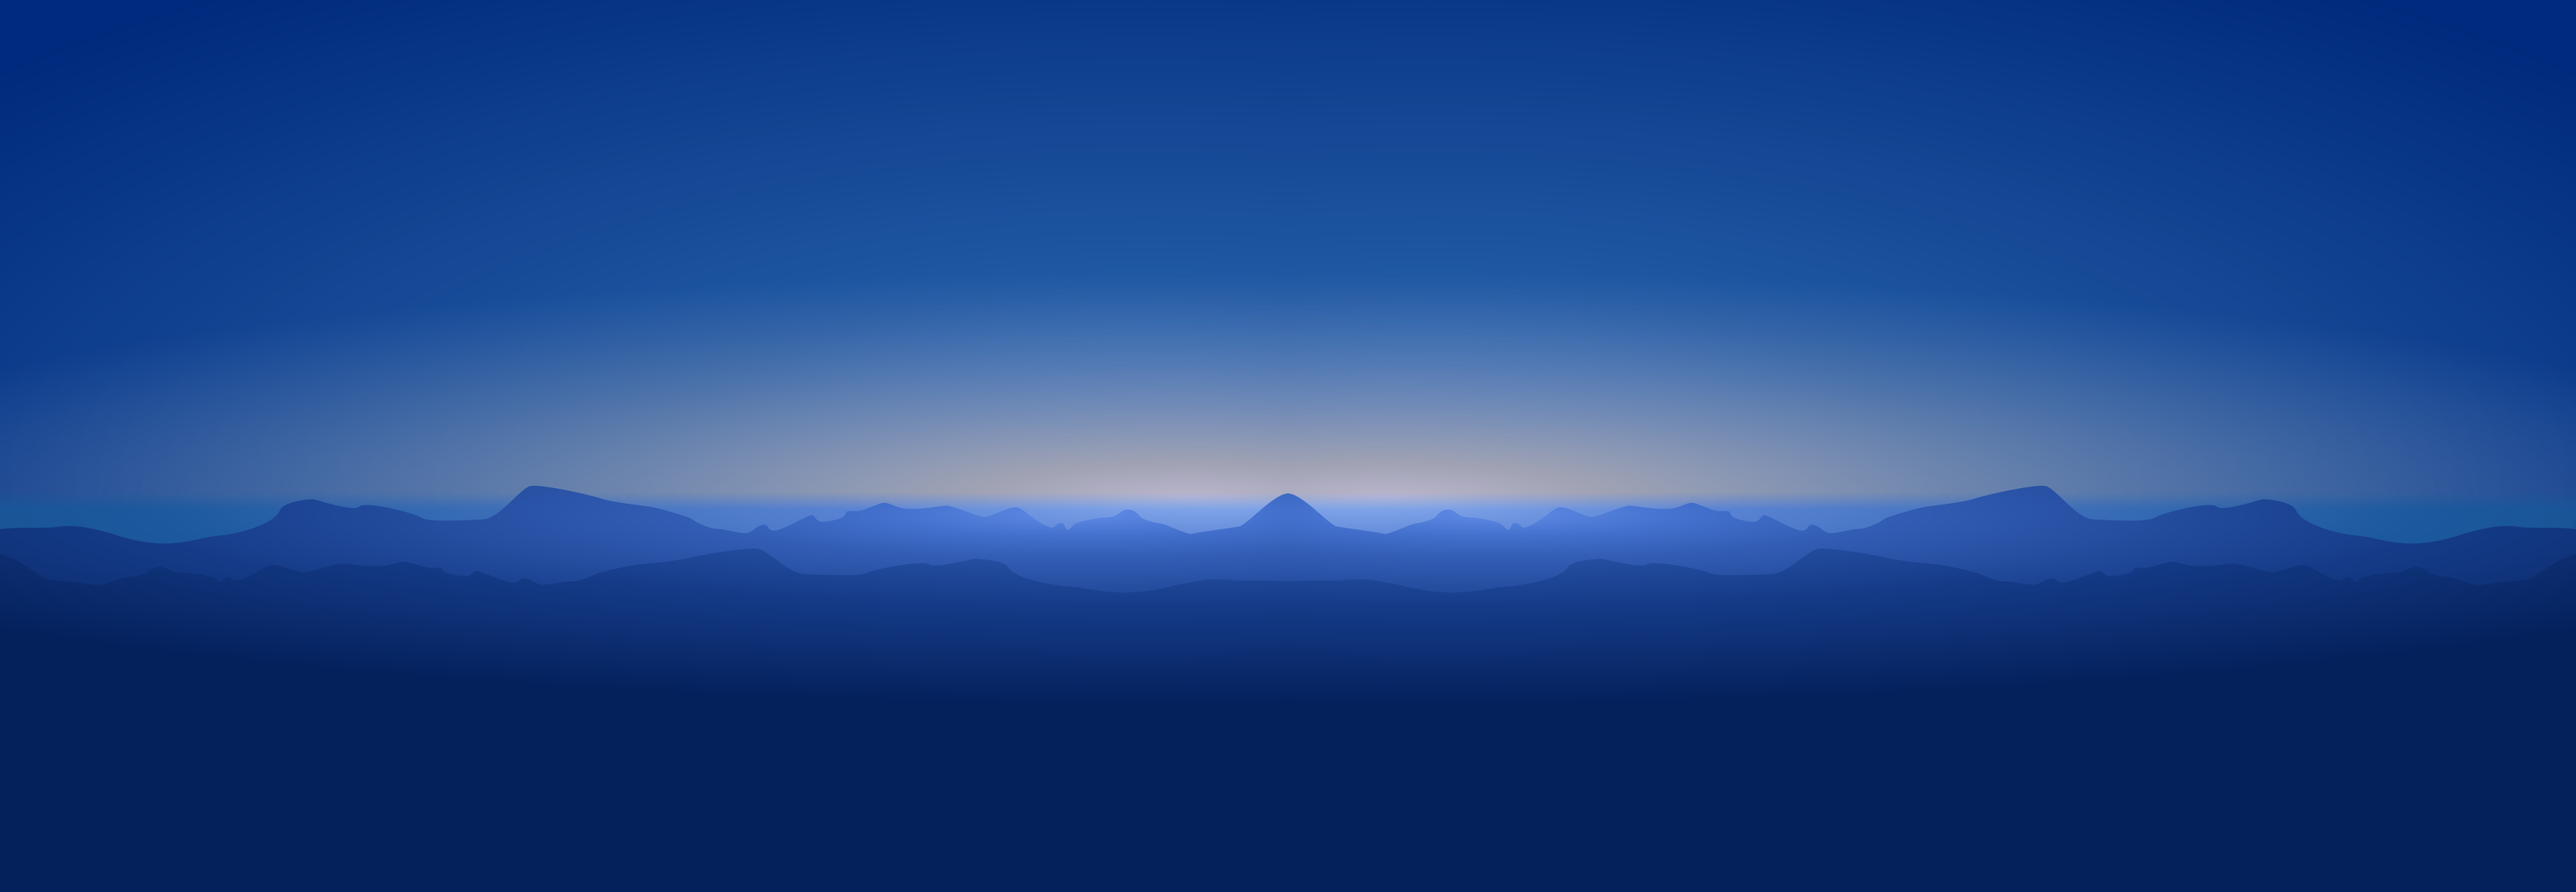
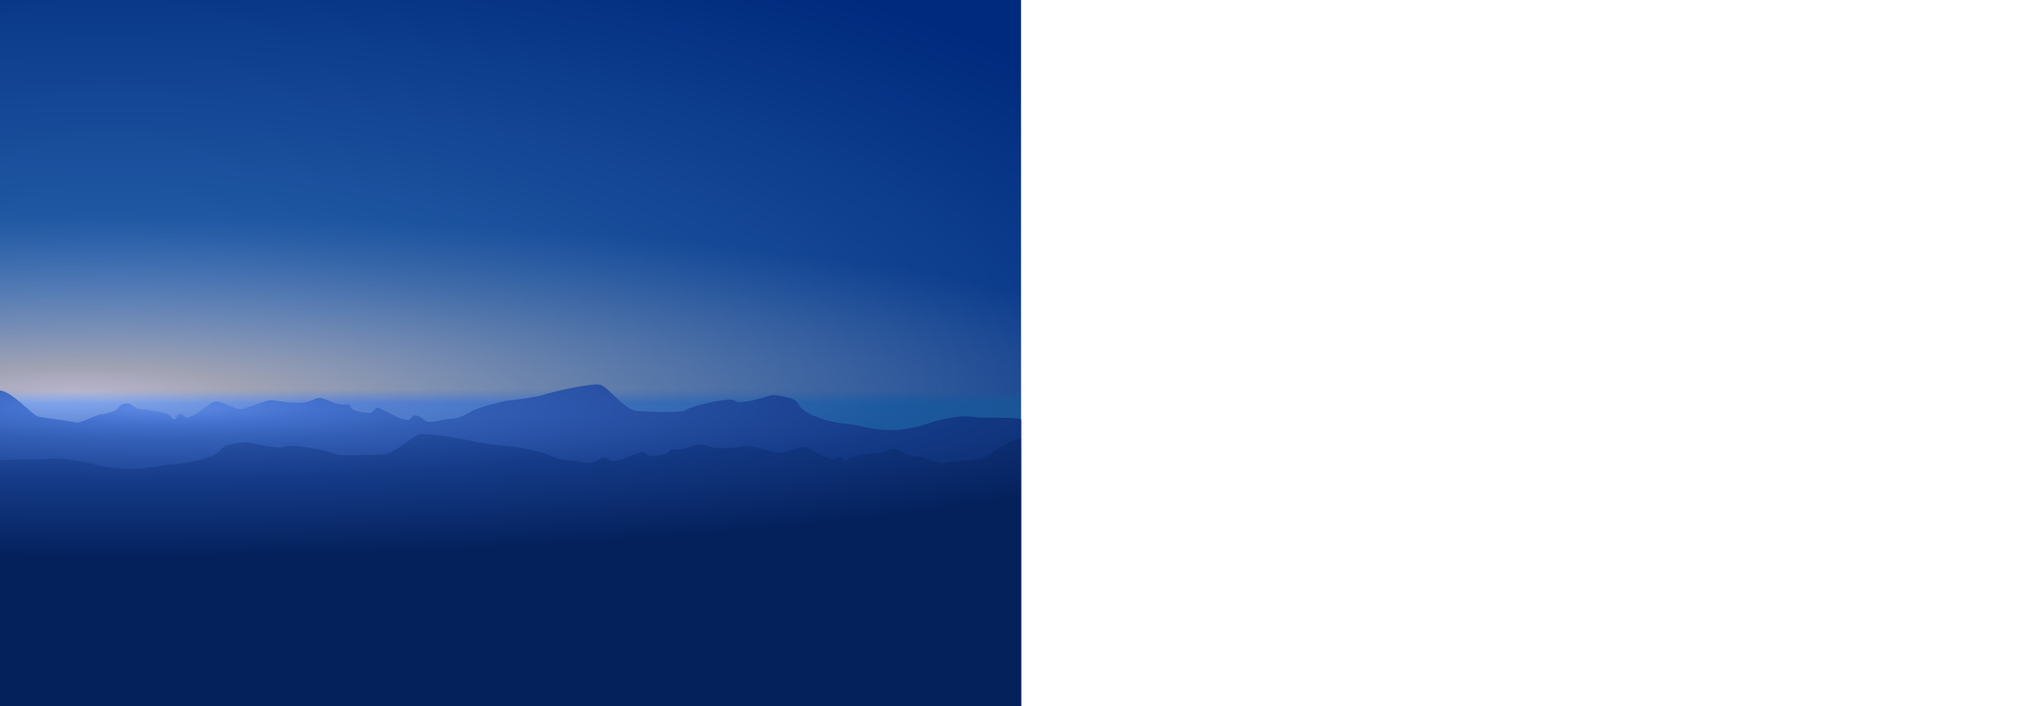
reformat website

diff --git a/index.html b/index.html
@@ -1,44 +1,57 @@
 <!doctype html>
 <html lang="en" class="h-100">
-    <head>
-        <meta charset="utf-8">
-        <title>Decind</title>
-        <link rel="icon" href="static/img/favicon.png" sizes="any" type="image/png">
 
-        <!-- Bootstrap CSS -->
-        <link href="https://cdn.jsdelivr.net/npm/bootstrap@5.0.0-beta1/dist/css/bootstrap.min.css" rel="stylesheet" integrity="sha384-giJF6kkoqNQ00vy+HMDP7azOuL0xtbfIcaT9wjKHr8RbDVddVHyTfAAsrekwKmP1" crossorigin="anonymous">
-        <link href="static/css/index.css" rel="stylesheet">
-    </head>
-    <body class="d-flex h-100 text-center text-white">
-        <div class="cover-container d-flex w-100 h-100 p-3 mx-auto flex-column">
-            <header>
-                <div>
-                    <h3 class="float-md-start mb-0">Decind Project</h3>
-                    <nav class="nav nav-masthead justify-content-center float-md-end">
-                        <a class="nav-link active" aria-current="page" href="#">About</a>
-                    </nav>
-                </div>
-            </header>
+<head>
+    <meta charset="utf-8">
+    <meta name="viewport" content="width=device-width, initial-scale=1">
+    <title>Decind</title>
+    <link rel="icon" href="static/img/favicon.png" sizes="any" type="image/png">
 
-            <main class="mt-auto">
-                <img src="static/img/big_logo_shadowed.png" style="width: 40%"/>
-                <h3>Decentralized Index Funds Project</h3>
-                <div class="text-white-50">
-                    <i>
-                        Download the
-                        <a class="text-white" target="_BLANK" href="https://github.com/decind/whitepaper/raw/official/whitepaper.pdf">
-                            official whitepaper
-                        </a>
-                    </i>
-                </div>
-            </main>
+    <!-- Bootstrap CSS -->
+    <link href="https://cdn.jsdelivr.net/npm/bootstrap@5.0.0-beta1/dist/css/bootstrap.min.css" rel="stylesheet"
+        integrity="sha384-giJF6kkoqNQ00vy+HMDP7azOuL0xtbfIcaT9wjKHr8RbDVddVHyTfAAsrekwKmP1" crossorigin="anonymous">
+    <link href="static/css/index.css" rel="stylesheet">
+</head>
 
-            <footer class="mt-auto text-white-50">
-                <p>
-                    Find more code on
-                    <a target="_BLANK" href="https://github.com/decind" class="text-white">Github</a>
-                </p>
-            </footer>
-        </div>
-    </body>
+<body class="d-flex h-100 text-center text-white">
+    <div class="cover-container d-flex w-100 h-100 p-3 mx-auto flex-column">
+        <header>
+            <div>
+                <h3 class="float-md-start mb-0">Decind Project</h3>
+                <nav class="nav nav-masthead justify-content-center float-md-end">
+                    <a class="nav-link active" aria-current="page" href="/">Overview</a>
+                    <a class="nav-link disabled" aria-current="page" href="#">About</a>
+                </nav>
+            </div>
+        </header>
+
+        <main class="mt-auto">
+            <img src="static/img/big_logo_shadowed.png" style="width: 40%" />
+            <h3>Decentralized Index Funds Project</h3>
+            <p>Cross-chain, crowd-managed and decentralized index funds</p>
+        </main>
+
+        <footer class="mt-auto btn-group sm-2">
+            <button onclick="window.open('https://github.com/decind/whitepaper/raw/official/whitepaper.pdf')"
+                type="button" class="btn btn-outline-light">
+                <svg xmlns="http://www.w3.org/2000/svg" width="20" height="20" fill="currentColor" class="bi bi-book"
+                    viewBox="0 0 20 20">
+                    <path
+                        d="M1 2.828c.885-.37 2.154-.769 3.388-.893 1.33-.134 2.458.063 3.112.752v9.746c-.935-.53-2.12-.603-3.213-.493-1.18.12-2.37.461-3.287.811V2.828zm7.5-.141c.654-.689 1.782-.886 3.112-.752 1.234.124 2.503.523 3.388.893v9.923c-.918-.35-2.107-.692-3.287-.81-1.094-.111-2.278-.039-3.213.492V2.687zM8 1.783C7.015.936 5.587.81 4.287.94c-1.514.153-3.042.672-3.994 1.105A.5.5 0 0 0 0 2.5v11a.5.5 0 0 0 .707.455c.882-.4 2.303-.881 3.68-1.02 1.409-.142 2.59.087 3.223.877a.5.5 0 0 0 .78 0c.633-.79 1.814-1.019 3.222-.877 1.378.139 2.8.62 3.681 1.02A.5.5 0 0 0 16 13.5v-11a.5.5 0 0 0-.293-.455c-.952-.433-2.48-.952-3.994-1.105C10.413.809 8.985.936 8 1.783z" />
+                </svg>
+                <span class="footer-button-text">Official Whitepaper</span>
+            </button>
+            <button onclick="window.open('https://github.com/decind')" type="button" class="btn btn-outline-light">
+                <svg xmlns="http://www.w3.org/2000/svg" width="20" height="20" fill="currentColor" class="bi bi-github"
+                    viewBox="0 0 20 20">
+                    <path
+                        d="M8 0C3.58 0 0 3.58 0 8c0 3.54 2.29 6.53 5.47 7.59.4.07.55-.17.55-.38 0-.19-.01-.82-.01-1.49-2.01.37-2.53-.49-2.69-.94-.09-.23-.48-.94-.82-1.13-.28-.15-.68-.52-.01-.53.63-.01 1.08.58 1.23.82.72 1.21 1.87.87 2.33.66.07-.52.28-.87.51-1.07-1.78-.2-3.64-.89-3.64-3.95 0-.87.31-1.59.82-2.15-.08-.2-.36-1.02.08-2.12 0 0 .67-.21 2.2.82.64-.18 1.32-.27 2-.27.68 0 1.36.09 2 .27 1.53-1.04 2.2-.82 2.2-.82.44 1.1.16 1.92.08 2.12.51.56.82 1.27.82 2.15 0 3.07-1.87 3.75-3.65 3.95.29.25.54.73.54 1.48 0 1.07-.01 1.93-.01 2.2 0 .21.15.46.55.38A8.012 8.012 0 0 0 16 8c0-4.42-3.58-8-8-8z">
+                    </path>
+                </svg>
+                <span class="footer-button-text">Source Code</span>
+            </button>
+        </footer>
+    </div>
+</body>
+
 </html>

diff --git a/static/css/index.css b/static/css/index.css
@@ -17,11 +17,10 @@
 body {
   text-shadow: 0 .05rem .1rem rgba(0, 0, 0, .5);
   box-shadow: inset 0 0 5rem rgba(0, 0, 0, .5);
-  background-image: url("../img/background.png");
+  background-image: url("../img/background.svg");
   background-color: #04215c;
-  background-repeat: repeat-x;
+  background-repeat: no-repeat;
   background-size: cover;
-  background-position: left 50% top 0%;
 }
 
 .cover-container {
@@ -72,4 +71,14 @@ body {
 
 .no-border {
     border-bottom: none;
+}
+
+/*
+ * Footer
+ */
+
+@media only screen and (max-width: 512px) {
+  .footer-button-text {
+      display: none;
+  }
 }
